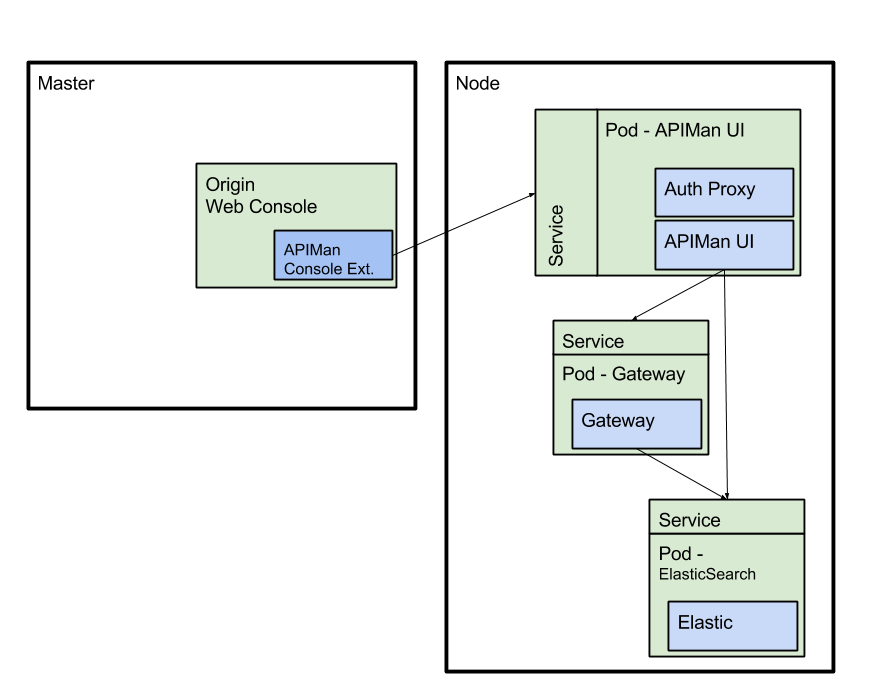
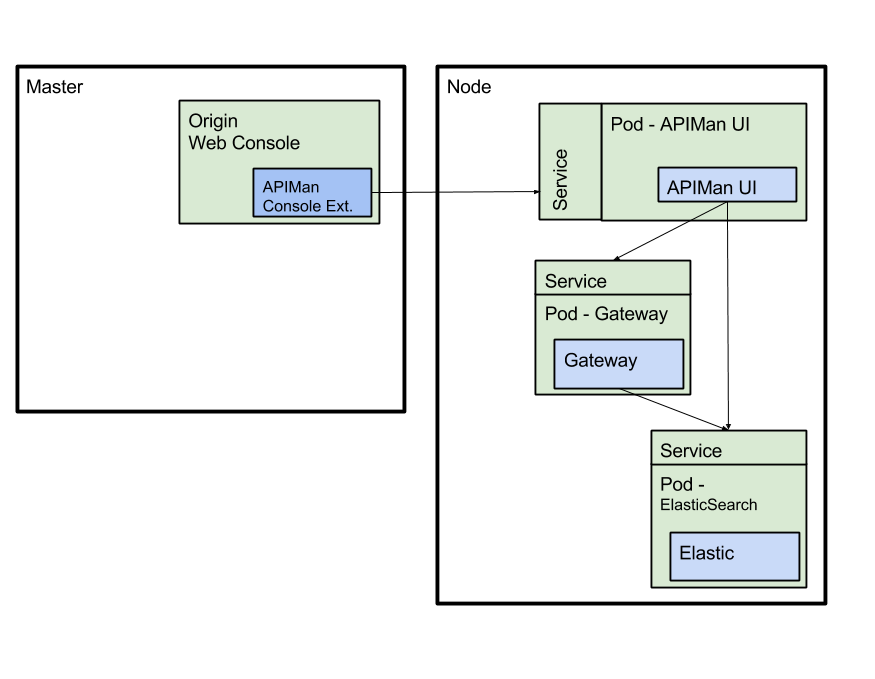
update picture. remove proxy refs and cli changes

Changed region(s): [[0.0, 0.0619, 0.9566, 1.0]]

diff --git a/docs/proposals/apiman-integration.md b/docs/proposals/apiman-integration.md
@@ -61,9 +61,10 @@ Services intended to be managed and exposed as API Endpoints will be annotated<s
       api.service.kubernetes.io/description-path: cxfcdi/swagger.json
       api.service.kubernetes.io/description-language: SwaggerJSON
 ```
-Additionally services can further be annotated to take advantage of APIMan features: auto import/publish, and plans.  The proposed annotations are:
+Additionally, services can further be annotated to take advantage of APIMan features: auto import/publish, and plans.  The proposed annotations are:
 ```
   annotation          value description                       example
+  ----------          -----------------                       -------
   apiman.io/publish   import or publish                       publish
   apiman.io/plans     comma separated list of plan:version    gold:1.0,silver:1.1
 ```
@@ -73,33 +74,7 @@ When a service includes the annotation `apiman.io/publish`, then
 
 Plans are a pre-configured policy chain that is defined for a project.  Upon service import, APIMan will look for the `apiman.io/plans` annotation. 
 - If this annotation is not available or no plan is specified, the API will be set to 'Public'
-- If plans are specific then they are applied to the API and the plan `version` will default to 1.0, unless specified.
-
-
-### OpenShift CLI Modifications
-The following changes are stretch goals for the initial release.  The OpenShift client binary will be updated to allow a user to:
-
- * Expose a service as an API endpoint
- * Hide an API endpoint.  
-
-Executing the command will update the service's annotations as described in the service annotation section.  Proposed syntax:
-
-``` oc set api-service SERVICENAME ```
-
-  with override options and the defaults:
-  
-```  
-    --protocol               REST
-    --scheme                 https
-    --path                   ""
-    --description-path       swagger.json
-    --description-language   SwaggerJSON
-```
-  Identifying a service as an API endpoint will additionally create a named route for the service that has the same route host as that of API Gateway.  The output of the command should return a route to the service.
-
-Hiding an API endpoint will remove the annotations from a service.  The change will additionally cause APIMan to remove this service endpoint.  Possible usage syntax:
-
-```oc unset api-service SERVICENAME```
+- If plans are provided, they are applied to the API and the plan `version` will default to 1.0, unless specified.
 
 ### OpenShift Web Console UI Extension
 A custom extension<sup>[6](#r6)</sup> will be created and deployed with the OpenShift web console to support API endpoints.  The extension will allow a user to navigate to the APIMan management interface to:
@@ -114,7 +89,7 @@ The extension will provide the following details to the APIMan management interf
 * User's Oauth token
 * Back link to the openshift web console
 
-Calls from the extension to the APIMan management interface will utilize a REST POST call where the oauth token is part of the payload.  It will utilize a similiar design<sup>[7](#r7)</sup> that is realized by the OpenShift origin aggregated logging integration and the auth proxy<sup>[8](#r8)</sup>.  It is necessary for security reasons to not add the token as a query parameter.  
+Calls from the extension to the APIMan management interface will utilize a REST POST call where the oauth token is part of the payload.  It will utilize a similiar design<sup>[7](#r7)</sup> that is realized by the OpenShift origin aggregated logging integration.  It is necessary for security reasons to not add the token as a query parameter.  
 
 ### APIMan Gateway
 The APIMan gateway will be deployed as a cluster-wide infrastructure component to handle services exposed as API endpoints.  Internal and external clients will use the gateway to access APIs.  Admins can configure the cluster to limit direct access to services and require consumers of API endpoints to utilize the gateway by deploying the multi-tenant SDN plugin.  This plugin controls service to service communication between projects and will force traffic through the gateway.  A route will be created as a well known endpoint to the APIMan gateway through which all API services traffic will flow.
@@ -124,7 +99,7 @@ The details of service authentication and consumption depend upon the type (i.e 
 
 ## Concerns
 ### Scalability
-There is a concern that utilizing ElasticSearch for storage is not as well understood as other options (e.g Postgresql).  Additionally, performance testing will need to be conducted to confirm the impact of adding a second, small ElasticSearch cluster to the infrastructure.  An alternative solution is to deploy a different storage engine which is better understood, has a smaller resource footprint but introduces scaling challenges.  APIMan can also generate metrics data which impacts its storage requirements; metrics could be off-loaded to the existing origin metrics<sup>[9](#r9)</sup> solution.  There is an existing RFE to investigate this change.  APIMan will initially be deployed with metrics disabled to minimize its storage requirements.
+There is a concern that utilizing ElasticSearch for storage is not as well understood as other options (e.g Postgresql).  Additionally, performance testing will need to be conducted to confirm the impact of adding a second, small ElasticSearch cluster to the infrastructure.  An alternative solution is to deploy a different storage engine which is better understood, has a smaller resource footprint but introduces scaling challenges.  APIMan can also generate metrics data which impacts its storage requirements; metrics could be off-loaded to the existing origin metrics<sup>[8](#r8)</sup> solution.  There is an existing RFE to investigate this change.  APIMan will initially be deployed with metrics disabled to minimize its storage requirements.
 
 ### Certificates
 This proposal provides a deployer component to handle CA and client certificates similiar to what is provided as with origin metrics and aggregated logging.  The same concerns that affect aggregated logging and metrics apply to APIMan: certificate expiration, certificate generation, etc.
@@ -140,5 +115,4 @@ We need to better understand and document how placing the APIMan gateway behind 
 * <span id="r5">[5]</span> Service Discovery - https://github.com/kubernetes/kubernetes/blob/master/docs/proposals/service-discovery.md
 * <span id="r6">[6]</span> Web Console Extensions - https://docs.openshift.org/latest/install_config/web_console_customization.html
 * <span id="r7">[7]</span> Kibana API Discovery - https://github.com/openshift/origin/blob/master/assets/app/scripts/directives/logViewer.js#L337
-* <span id="r8">[8]</span> OpenShift Auth Proxy - https://github.com/fabric8io/openshift-auth-proxy
-* <span id="r9">[9]</span> Origin Metrics - https://github.com/openshift/origin-metrics
+* <span id="r8">[8]</span> Origin Metrics - https://github.com/openshift/origin-metrics
